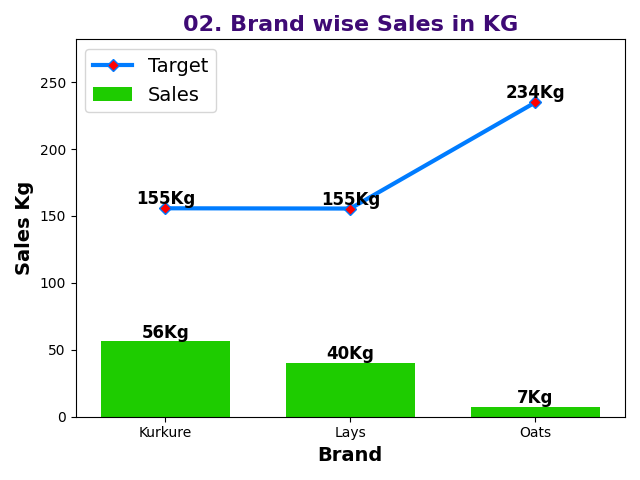
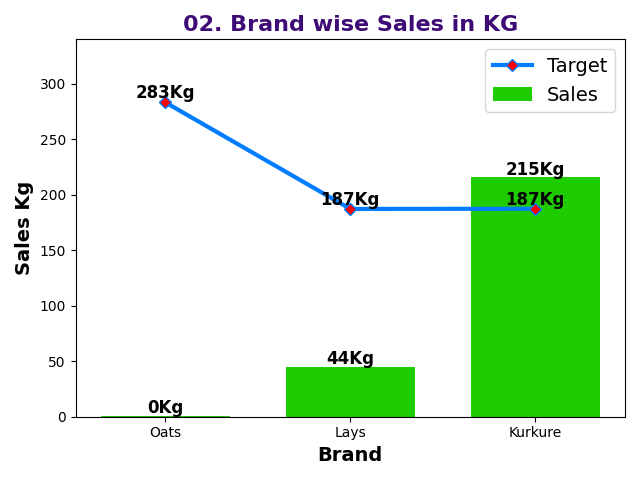
Brand wise sales KG figure generated

diff --git a/Functions/figures.py b/Functions/figures.py
@@ -203,34 +203,34 @@ def sales_kg_chart():
     return plt.savefig('./Images/brand_wise_sales_kg.png')
 
 
-def sales_val_chart(brand_list, ):
-
-    sales_val_list = d.Sales_Val_list
-    fig, ax = plt.subplots(figsize=(6.4, 4.8))
-
-    colors = ['yellow', 'orange', 'violet', '#DADADA', '#003f5c', '#665191', '#a05195', '#d45087', '#ff7c43', '#ffa600']
-    bars = plt.bar(brand_list, height=sales_val_list, color='#1ecc00', width=.70)
-    plt.plot(d.branch_mtd_target_list, color='#007cff', linewidth='3', marker='D', markerfacecolor="red")
-    plt.ylim(0, math.ceil(max(d.branch_mtd_target_list) * 1.2))
-
-    def autolabel(bars):
-        for bar in bars:
-            height = int(bar.get_height())
-            ax.text(bar.get_x() + bar.get_width() / 2., .995 * height, thousand_converter(height),
-                    ha='center', va='bottom', fontsize=12, fontweight='bold')
-
-    autolabel(bars)
-
-    for i, v in enumerate(d.branch_mtd_target_list):
-        ax.text(i, v, thousand_converter(v), ha='center', va='bottom', fontsize=12, fontweight='bold')
-
-    plt.title("01. Brand wise Sales in Value ", fontsize=16, fontweight='bold', color='#3e0a75')
-    plt.xlabel('Brand', fontsize='14', color='black', fontweight='bold')
-    plt.ylabel('Values', fontsize='14', color='black', fontweight='bold')
-    plt.legend(['Target', 'Sales'], loc='best', fontsize='14')
-
-    plt.rcParams['text.color'] = 'black'
-    plt.tight_layout()
-    # plt.show()
-    print('Fig 01: Brand wise sales in Value generated')
-    return plt.savefig('./Images/brand_wise_sales_val.png')
+# def sales_val_chart(brand_list, ):
+#
+#     sales_val_list = d.Sales_Val_list
+#     fig, ax = plt.subplots(figsize=(6.4, 4.8))
+#
+#     colors = ['yellow', 'orange', 'violet', '#DADADA', '#003f5c', '#665191', '#a05195', '#d45087', '#ff7c43', '#ffa600']
+#     bars = plt.bar(brand_list, height=sales_val_list, color='#1ecc00', width=.70)
+#     plt.plot(d.branch_mtd_target_list, color='#007cff', linewidth='3', marker='D', markerfacecolor="red")
+#     plt.ylim(0, math.ceil(max(d.branch_mtd_target_list) * 1.2))
+#
+#     def autolabel(bars):
+#         for bar in bars:
+#             height = int(bar.get_height())
+#             ax.text(bar.get_x() + bar.get_width() / 2., .995 * height, thousand_converter(height),
+#                     ha='center', va='bottom', fontsize=12, fontweight='bold')
+#
+#     autolabel(bars)
+#
+#     for i, v in enumerate(d.branch_mtd_target_list):
+#         ax.text(i, v, thousand_converter(v), ha='center', va='bottom', fontsize=12, fontweight='bold')
+#
+#     plt.title("01. Brand wise Sales in Value ", fontsize=16, fontweight='bold', color='#3e0a75')
+#     plt.xlabel('Brand', fontsize='14', color='black', fontweight='bold')
+#     plt.ylabel('Values', fontsize='14', color='black', fontweight='bold')
+#     plt.legend(['Target', 'Sales'], loc='best', fontsize='14')
+#
+#     plt.rcParams['text.color'] = 'black'
+#     plt.tight_layout()
+#     # plt.show()
+#     print('Fig 01: Brand wise sales in Value generated')
+#     return plt.savefig('./Images/brand_wise_sales_val.png')

diff --git a/Functions/sales_kg_figure.py b/Functions/sales_kg_figure.py
@@ -1,0 +1,37 @@
+import matplotlib.pyplot as plt
+import math
+import Functions.all_functions as fn
+
+
+def sales_kg_chart(brand_list, sales_kg_list, branch_mtd_target_kg_list):
+
+    fig, ax = plt.subplots(figsize=(6.4, 4.8))
+
+    colors = ['yellow', 'orange', 'violet', '#DADADA', '#003f5c', '#665191', '#a05195', '#d45087', '#ff7c43', '#ffa600']
+    bars = plt.bar(brand_list, height=sales_kg_list, color='#1ecc00', width=.70)
+    plt.plot(branch_mtd_target_kg_list, color='#007cff', linewidth='3', marker='D', markerfacecolor="red")
+
+    def autolabel(bars):
+        for bar in bars:
+            height = int(bar.get_height())
+            ax.text(bar.get_x() + bar.get_width() / 2., .995 * height, str(height) + 'Kg',
+                    ha='center', va='bottom', fontsize=12, fontweight='bold')
+
+    autolabel(bars)
+
+    for i, v in enumerate(branch_mtd_target_kg_list):
+        ax.text(i, v, str(fn.comma_seperator(v)) + 'Kg', ha='center', va='bottom', fontsize=12, fontweight='bold')
+
+    plt.ylim(0, math.ceil(max(branch_mtd_target_kg_list) * 1.2))
+    plt.title("02. Brand wise Sales in KG", fontsize=16, fontweight='bold', color='#3e0a75')
+    plt.xlabel('Brand', fontsize='14', color='black', fontweight='bold')
+    plt.ylabel('Sales Kg', fontsize='14', color='black', fontweight='bold')
+
+    plt.rcParams['text.color'] = 'black'
+    plt.legend(['Target', 'Sales'], loc='best', fontsize='14')
+
+    plt.tight_layout()
+    # plt.show()
+    print('Fig 02: Brand wise sales in kg generated')
+    return plt.savefig('./Images/brand_wise_sales_kg.png')
+

diff --git a/setup.py b/setup.py
@@ -36,7 +36,7 @@ import Functions.invoice as inv
 import Functions.drop_size as ds
 
 trg_val = trg.TotalTarget(22)[0]
-trg_kg = trg.TotalTarget(22)[1]
+trg_kg = int(trg.TotalTarget(22)[1])
 
 return_val = re.TotalReturn(22)[0]
 return_kg = re.TotalReturn(22)[1]
@@ -47,7 +47,8 @@ total_brand = up.UserProfile(22)[2]
 designation = up.UserProfile(22)[3]
 sales_val_list = up.UserProfile(22)[4]
 sales_val = sum(sales_val_list)
-sales_kg = up.UserProfile(22)[5]
+sales_kg_list = up.UserProfile(22)[5]
+sales_kg = int(sum(sales_kg_list))
 brand_list = up.UserProfile(22)[6]
 target_list = up.UserProfile(22)[7]
 target_kg_list = up.UserProfile(22)[8]
@@ -110,16 +111,17 @@ else:
 
 # # ------------------------------- KPI Data generation -------------------------------------------------
 import Functions.dashboard as dash
+import Functions.sales_figure as salesf
+import Functions.sales_kg_figure as saleskg
 
 dash.generate_dashboard(sr_name, reporting_boss, trg_val, sales_val, trg_kg, sales_kg, days_in_month,
                         current_day, trend_val, return_val, return_kg, visit_rate, strike_rate, lpc, val_drop_size,
                         w_drop_size, trend_w_kg, w_trend_per)
 
-import Functions.sales_figure as salesf
 salesf.sales_val_chart(brand_list, sales_val_list, branch_mtd_target_list)
+saleskg.sales_kg_chart(brand_list, sales_kg_list, branch_mtd_target_kg_list)
 
-fg.sales_kg_chart()
-# fg.day_wise_visit_rate()
+fg.day_wise_visit_rate()
 # fg.day_wise_strike_rate()
 # fg.day_wise_lpc_rate()
 # fg.day_wise_drop_size_value()

diff --git a/Functions/user_profiles.py b/Functions/user_profiles.py
@@ -52,9 +52,9 @@ def UserProfile(id):
     total_brand = profile_df.Brand.count()
     designation = profile_df.SRDESIGNATION.loc[0]
     sales_val_list = profile_df.SalesVal.tolist()
-    sales_kg = int(sum(profile_df.SalesKg))
+    sales_kg_list = profile_df.SalesKg.tolist()
     brand_list = profile_df.BrandName.tolist()
     target_list = profile_df.TargetVal.tolist()
     target_kg_list = profile_df.TargetKG.tolist()
 
-    return sr_name, reporting_boss, total_brand, designation, sales_val_list, sales_kg, brand_list, target_list, target_kg_list
+    return sr_name, reporting_boss, total_brand, designation, sales_val_list, sales_kg_list, brand_list, target_list, target_kg_list

diff --git a/Functions/sales_figure.py b/Functions/sales_figure.py
@@ -28,6 +28,6 @@ def sales_val_chart(brand_list, Sales_Val_list, branch_mtd_target_list):
 
     plt.rcParams['text.color'] = 'black'
     plt.tight_layout()
-    plt.show()
-    # print('Fig 01: Brand wise sales in Value generated')
-    # return plt.savefig('./Images/brand_wise_sales_val.png')
+    # plt.show()
+    print('Fig 01: Brand wise sales in Value generated')
+    return plt.savefig('./Images/brand_wise_sales_val.png')
